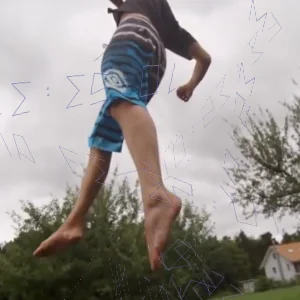
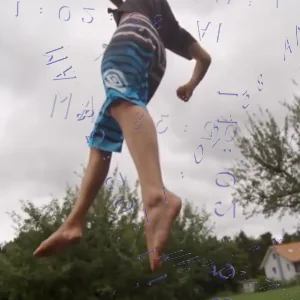
m

diff --git a/src/pages/2026/26-07/26-07-02/Clock.tsx b/src/pages/2026/26-07/26-07-02/Clock.tsx
@@ -60,7 +60,7 @@ const FloatingDigitalClocks: React.FC = () => {
   }, []);
 
   // Helper to generate a slow random velocity between -0.3 and +0.3 degrees per frame
-  const getRandomVelocity = () => (Math.random() * 0.6 - 0.3);
+  const getRandomVelocity = () => (Math.random() * 0.001 - 0.05);
 
   // 2. Initialize floating clocks with random positions, initial rotations, and spin rates
   useEffect(() => {
